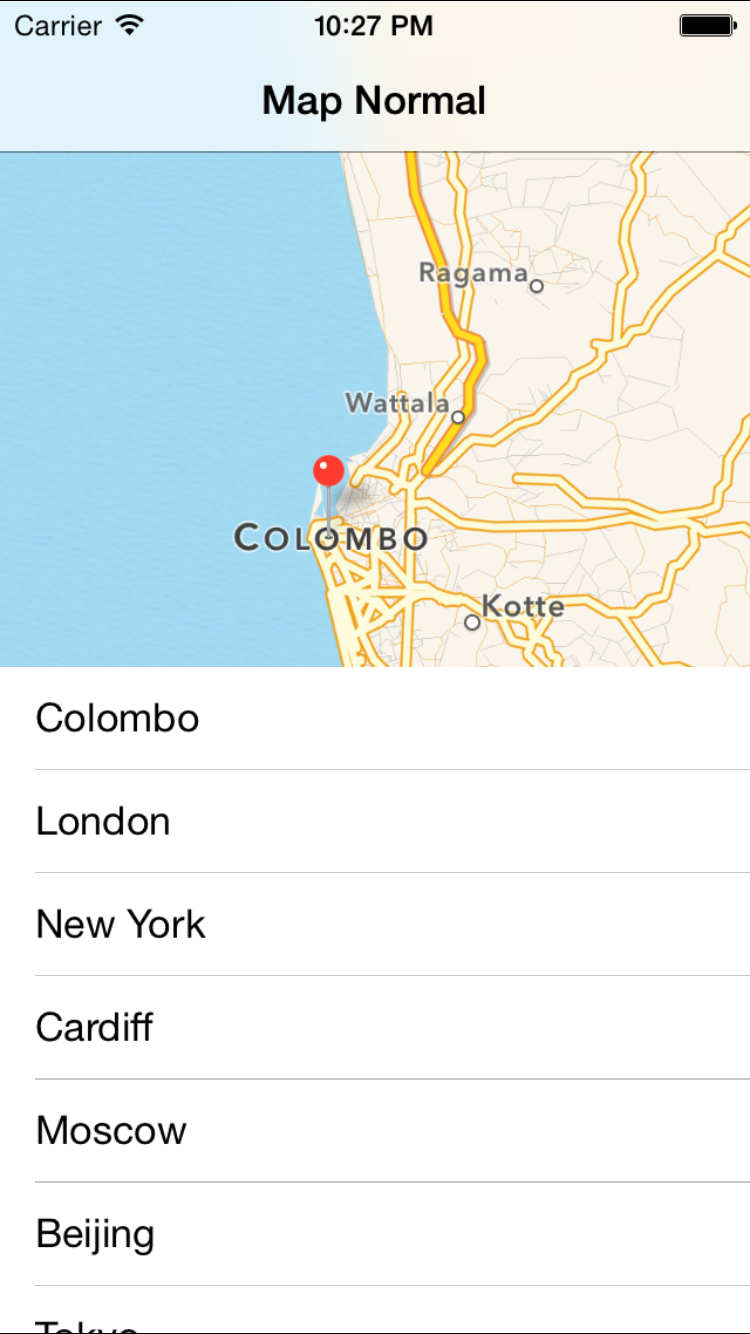
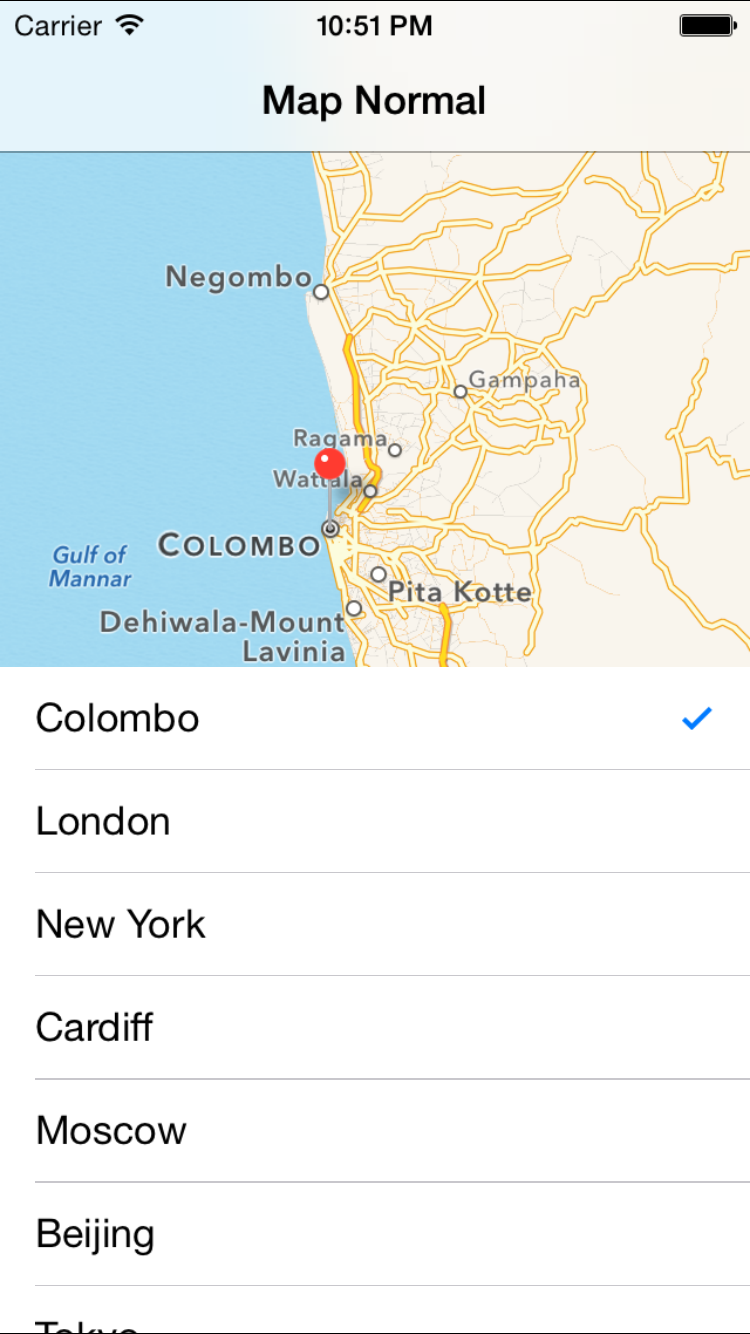
Multiple selection

Changed region(s): [[0.0613, 0.0922, 1.0, 0.5225], [0.4293, 0.0, 0.5827, 0.0307], [0.92, 0.5225, 0.9507, 0.5532]]

diff --git a/LocationPickerView-Demo/LocationPickerView-Demo/ViewController.m b/LocationPickerView-Demo/LocationPickerView-Demo/ViewController.m
@@ -13,6 +13,8 @@
 @interface ViewController ()
 
 @property (nonatomic,strong)NSArray *cities;
+@property (nonatomic,strong)NSMutableArray *selectedItems;
+@property (nonatomic,strong)NSMutableDictionary *annotations;
 @end
 
 @implementation ViewController
@@ -56,6 +58,8 @@
     [self.view addSubview:self.locationPickerView];
     
     self.cities = [NSArray arrayWithObjects:@"Colombo",@"London",@"New York",@"Cardiff",@"Moscow",@"Beijing",@"Tokyo",@"Melbourne",@"Zurich",@"Berlin",@"Salzburg",@"Helsinki",@"Seoul",@"Pyong Yang",@"Perth",@"Brisbane",@"Oslo",@"Sydney",@"Vienna",@"Cairo",@"Rio De Janeiro",@"Nairobi", nil];
+    self.selectedItems = [[NSMutableArray alloc]init];
+    self.annotations = [[NSMutableDictionary alloc]init];
 }
 
 - (void)didReceiveMemoryWarning
@@ -80,13 +84,28 @@
     
     cell.textLabel.text = [self.cities objectAtIndex:indexPath.row];
     
+
+    cell.textLabel.text = [self.cities objectAtIndex:indexPath.row];
+    if ([self.selectedItems containsObject:[self.cities objectAtIndex:indexPath.row]]) {
+        cell.accessoryType = UITableViewCellAccessoryCheckmark;
+    }else {
+        cell.accessoryType = UITableViewCellAccessoryNone;
+    }
     return cell;
 }
 
 - (void)tableView:(UITableView *)tableView didSelectRowAtIndexPath:(NSIndexPath *)indexPath
 {
-    [self setLocation:[self.cities objectAtIndex:indexPath.row]];
-    [tableView deselectRowAtIndexPath:indexPath animated:NO];
+
+    if ([self.selectedItems containsObject:[self.cities objectAtIndex:indexPath.row]]) {
+        [self.selectedItems removeObject:[self.cities objectAtIndex:indexPath.row]];
+        [self removeLocation:[self.cities objectAtIndex:indexPath.row]];
+    }else {
+        [self.selectedItems addObject:[self.cities objectAtIndex:indexPath.row]];
+        [self setLocation:[self.cities objectAtIndex:indexPath.row]];
+    }
+    
+    [tableView reloadRowsAtIndexPaths:[NSArray arrayWithObject:indexPath] withRowAnimation:UITableViewRowAnimationFade];
 
 }
 
@@ -157,9 +176,15 @@
                          
                          [weakSelf.locationPickerView.mapView setRegion:region animated:YES];
                          [weakSelf.locationPickerView.mapView addAnnotation:placemark];
+                         
+                         [self.annotations setObject:placemark forKey:location];
                      }
                  }
      ];
 }
 
+- (void)removeLocation:(NSString *)location{
+    
+    [self.locationPickerView.mapView removeAnnotation:[self.annotations objectForKey:location]];
+}
 @end
